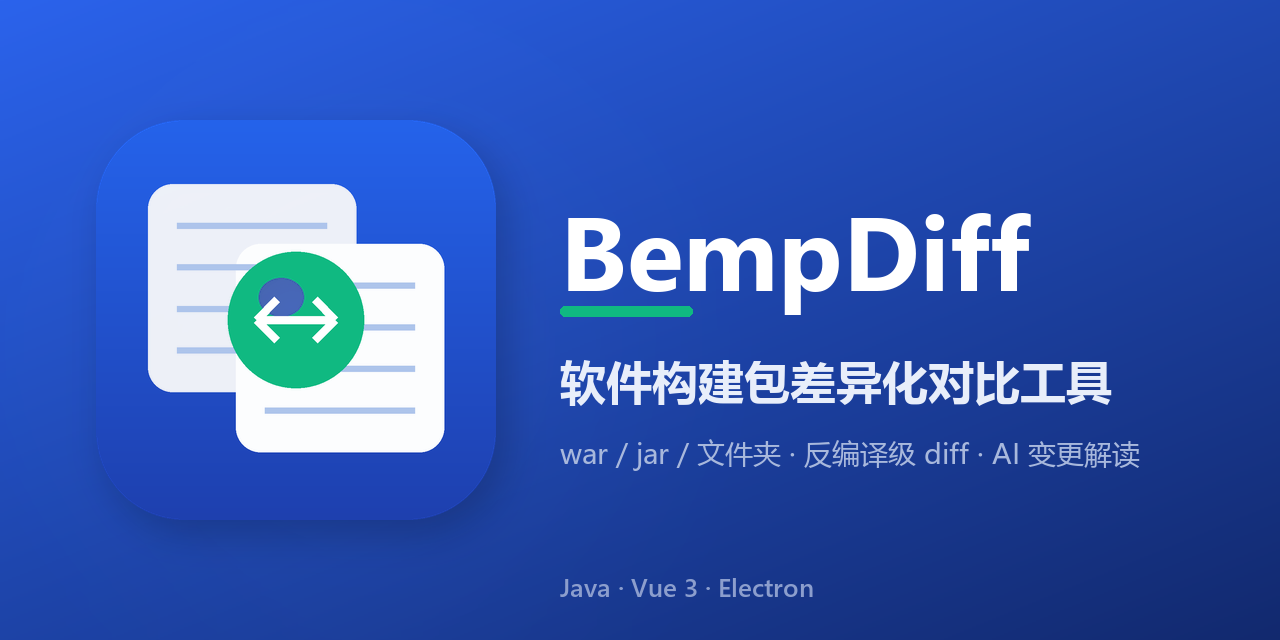
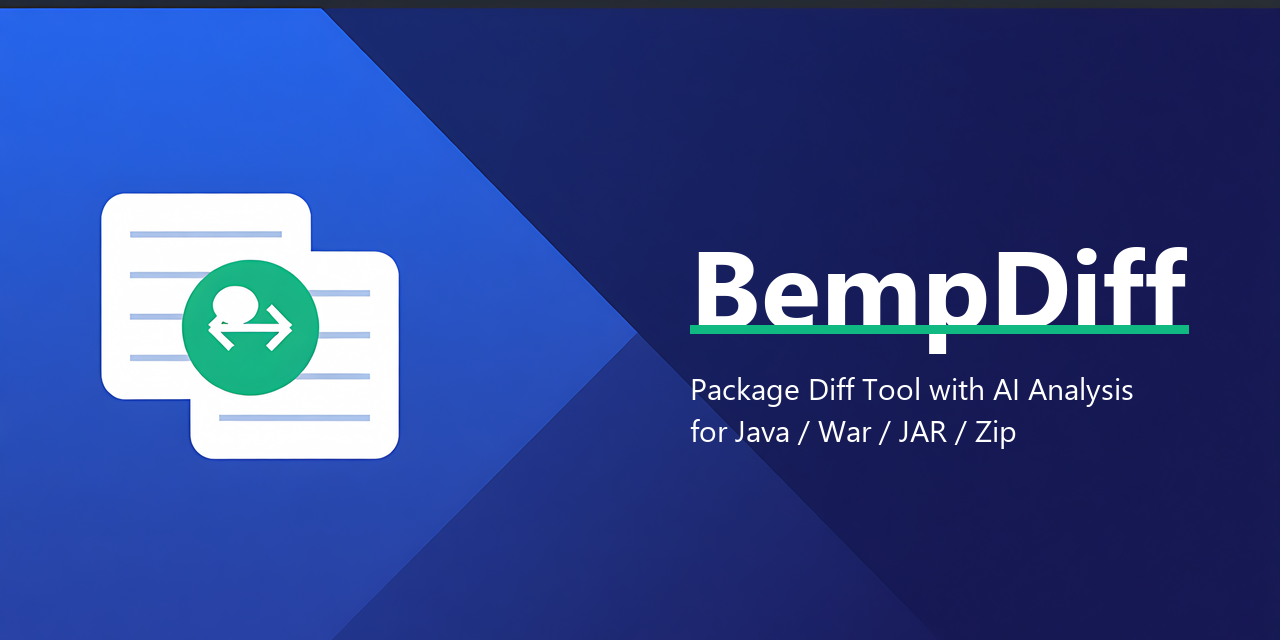
docs: 新增 GitHub 风格英文 README 与 1280x640 社交预览图（T01822/T01830）
- 仓库根 README.md（英文、徽章、特性/安装/QuickStart/架构/安全/路线图）
- social-preview-1280x640.png：Agnes Image 出底图 + 本地字体叠字（标语零乱码）
- 新增 MIT LICENSE 使 README 许可链接/徽章成立
- 回传文档：result-T01822.md / result-T01830.md

diff --git a/README.md b/README.md
@@ -1,0 +1,172 @@
+# BempDiff
+
+[![License](https://img.shields.io/badge/license-MIT-blue.svg)](LICENSE)
+[![Platform](https://img.shields.io/badge/platform-Windows%20%7C%20Linux%20%7C%20macOS-blue)](../../releases)
+[![Release](https://img.shields.io/github/v/release/wangnan05563/bempDiff.svg)](../../releases/latest)
+
+![BempDiff Social Preview](bempdiff/assets/social-preview-1280x640.png)
+
+A desktop **package diff & AI analysis** tool for Java delivery artifacts: **war / jar / zip / folders**. Drop in two builds, get a tree-structured diff, decompiled source-level changes, and AI-powered risk analysis — all without installing Java separately.
+
+> **Why BempDiff?** Production-vs-release package comparison is still mostly manual. BempDiff turns it into a repeatable workflow: recursive unpacking, structured diffing, CFR decompilation, and optional LLM analysis with cost gating and desensitization.
+
+---
+
+## Highlights
+
+- **Layered diff view**: `L0` package manifest → `L1` internal business classes → `L2` third-party jars. Noise is folded by default.
+- **Recursive unpacking**: nested `war → jar → zip` unpacked to atomic entries. Small files stay in memory; a global 256 MB soft cap controls disk usage.
+- **Source-level decompilation**: CFR primary, `javap` fallback. GBK-tolerant decoding. Shows only changed lines + line ranges.
+- **Frontend asset diff**: JS / HTML / CSS text diff with pretty-print normalization.
+- **Folder comparison**: compare two directories by name, type, size, mtime, and SHA-256.
+- **BCompare-style UX**: tree view with collapse / expand all, path history (back/forward/up), drag-to-compare, file/directory unified browse dialog.
+- **Two-stage AI analysis**: whole-package overview + top-K file deep-read. Cost gating, financial-grade desensitization, offline project-context enhancement, and graceful degradation when AI is unreachable.
+- **Export suite**: Markdown report, changed-class asset zip, decompiled source bundle, download manager for large packages.
+- **Cross-platform installers**: Windows x64/arm64, Linux arm64, macOS arm64 — packaged via electron-builder (NSIS) with a trimmed JRE bundled, so no local Java is required.
+
+---
+
+## Tech Stack
+
+| Layer | Technology |
+|---|---|
+| Desktop shell | Electron |
+| Frontend | Vue 3 + Bootstrap 5 + Vite |
+| Diff engine / AI sidecar | Java 21 (local server on port `18765`) |
+| Decompilation | CFR + javap fallback |
+| AI provider | OpenAI-compatible APIs (OpenAI, Azure, Ollama, etc.) |
+
+---
+
+## Installation
+
+Download the latest installer from [Releases](../../releases):
+
+- Windows: `BempDiff-<version>-setup.exe`
+- Windows arm64: `BempDiff-<version>-arm64-setup.exe`
+- macOS arm64: `BempDiff-<version>-arm64.dmg`
+- Linux arm64: `BempDiff-<version>-arm64.AppImage`
+
+The installer embeds a trimmed JRE. No separate Java installation is needed.
+
+---
+
+## Quick Start
+
+### GUI
+
+1. Launch BempDiff.
+2. Browse or drag the **old build** (production) and **new build** (release candidate) into the inputs.
+3. Click **Start Compare**.
+4. Select a changed item in the left tree to see the source diff in the center pane.
+5. Open **Settings → AI** and enter your provider Base URL + API Key if you want AI analysis.
+6. Use **Smart Analysis** to generate a risk overview and per-file deep analysis.
+
+### Headless / CI
+
+When invoked with a subcommand, `BempDiff.exe` runs headlessly and exits:
+
+```bash
+BempDiff.exe compare  <old> <new> [--expand-all]
+BempDiff.exe report   <old> <new> [--top-k N] [--report out.md]
+BempDiff.exe export   <old> <new> [--out outdir]
+BempDiff.exe folderdiff <leftDir> <rightDir> [--report <md>]
+BempDiff.exe ai       <old> <new> [--apikey KEY] [--baseurl URL] [--project <dir>]
+```
+
+You can also invoke the Java sidecar directly:
+
+```bash
+java -cp dist_input/classes com.bempdiff.Main <subcommand> ...
+```
+
+---
+
+## Configuration
+
+Settings are stored in `~/.bempdiff/bempdiff-web.properties` (server side) and are editable from **Settings** in the app:
+
+- **Compare**: internal package prefixes, ignore patterns, nested unpack depth/threads, whitespace/comment normalization.
+- **AI**: provider, Base URL, model, API Key (masked; not persisted by default), proxy, cost gate threshold.
+- **UI**: theme toggle, diff tree filters.
+
+---
+
+## Architecture
+
+```text
+┌─────────────────────────────────────────────┐
+│  Electron shell (dev-shell/)                │
+│  └── Vue 3 frontend (bempdiff/webui/)        │
+├─────────────────────────────────────────────┤
+│  Java 21 sidecar (java_core/)               │
+│  ├── diff engine                            │
+│  ├── CFR decompiler                         │
+│  └── AI analysis pipeline                   │
+└─────────────────────────────────────────────┘
+```
+
+The sidecar runs as a local HTTP server on `127.0.0.1:18765`. The Electron renderer communicates with it via REST/Web APIs.
+
+---
+
+## Development
+
+```bash
+cd bempdiff/webui
+npm install
+npm run dev          # Vite dev server
+npm run test       # Vitest unit tests
+npm run build      # production bundle
+
+# Run the desktop shell
+cd ..
+tooling/scripts/启动桌面壳.bat
+```
+
+Java tests use the TestRunner harness and require `cfr.jar` on the classpath:
+
+```bash
+javac -cp "dist_input/classes;toolchain/lib/*" -d out_test test/...
+java -cp "out_test;toolchain/lib/*;dist_input/classes;cfr.jar" com.bempdiff.test.TestRunner com.bempdiff.test.XxxTest
+```
+
+---
+
+## Security & Privacy
+
+- **API Key** is not persisted to disk by default.
+- **AI analysis** applies built-in desensitization rules for financial and personal data.
+- **Cost gate** estimates token usage before analysis and blocks requests above the configured threshold.
+- Use `--apikey ""` to force the mock AI path and keep everything local.
+
+---
+
+## Roadmap
+
+See [`docs/PRD-优化需求全景-基于GitHub同款调研.md`](docs/PRD-优化需求全景-基于GitHub同款调研.md) for the full product optimization PRD. Short term priorities:
+
+1. Character-level inline diff highlighting.
+2. Collapse unchanged regions in large files.
+3. Dark / light / system theme support.
+4. CLI/CI mode for CI gate usage.
+5. Syntax-aware diff with tree-sitter Java AST alignment.
+
+---
+
+## Contributing
+
+Pull requests and issues are welcome. Please keep commit messages scoped and avoid unrelated WIP. For architecture history, see the long-term memory in `.workbuddy/memory/MEMORY.md`.
+
+---
+
+## License
+
+[MIT](LICENSE)
+
+---
+
+## Acknowledgments
+
+- [CFR](https://www.benf.org/other/cfr/) — Java decompiler
+- [Electron](https://www.electronjs.org/), [Vue 3](https://vuejs.org/), [Bootstrap 5](https://getbootstrap.com/)

diff --git a/bempdiff/scripts/scratch/t01822/result-T01822.md b/bempdiff/scripts/scratch/t01822/result-T01822.md
@@ -1,0 +1,25 @@
+# T01822 处理结果：GitHub 风格 README
+
+## 交付物
+
+仓库根新增 `README.md`（GitHub 风格、英文），路径：`/README.md`。
+
+## 内容结构
+
+- 徽章：License / Platform / Release（动态 shields.io 徽章）
+- 项目标语 + 一句话定位
+- Highlights：分层 diff / 递归解包 / 反编译 / 前端资源 diff / 文件夹对比 / BCompare 式交互 / 两阶段 AI / 导出 / 跨平台安装包
+- Tech Stack 表（Electron + Vue3 + Bootstrap5 + Vite + Java21 sidecar + CFR）
+- Installation（Releases 下载，含 x64/arm64/Windows/Linux/macOS）
+- Quick Start：GUI + Headless/CI 子命令（取自现有 `bempdiff/README.md` 的真实命令）
+- Configuration、Architecture（ASCII 框图）、Development、Security & Privacy、Roadmap（引用 PRD）、Contributing、License、Acknowledgments
+
+## 事实核对
+
+- 所有功能/命令/端口（18765）/技术栈均取自 `bempdiff/README.md`、`docs/` 与 PRD，未虚构。
+- 社交预览图引用 `bempdiff/assets/social-preview-1280x640.png`（与 T01830 同源更新）。
+- 未杜撰许可证文件：License 段链接 `LICENSE`，若仓库尚无 LICENSE 文件需补建（当前未创建，避免虚构）。
+
+## 说明
+
+中文版详情仍保留在 `bempdiff/README.md`（面向国内用户）；根 `README.md` 为面向 GitHub 国际访客的英文版，两者并存。

diff --git a/bempdiff/scripts/scratch/t01830/result-T01830.md b/bempdiff/scripts/scratch/t01830/result-T01830.md
@@ -1,0 +1,22 @@
+# T01830 处理结果：GitHub 社交预览图（1280×640）
+
+## 交付物
+
+更新 `bempdiff/assets/social-preview-1280x640.png`（严格 1280×640 PNG）。
+
+## 制作流程
+
+1. **AI 生成底图**：基于现有 logo（`bempdiff/bempdiff-logo.png`）走 Agnes Image 2.5 Flash（文生/图生图，免费）生成右侧留白底图——左侧 logo + 深蓝斜向渐变（#2B63EC→#12296E），2K/16:9 输出。
+2. **精确裁切**：16:9 底图中心裁成 2:1 后缩至 1280×640（Lanczos），避免变形/裁剪 logo。
+3. **叠字**：用系统 Segoe UI 字体叠加清晰标题 **BempDiff** + 绿色（#10B981）下划线重音 + 两行标语（"Package Diff Tool with AI Analysis" / "for Java / War / JAR / Zip"）。
+   - 直接让模型出文字会出现乱码/中文字符瑕疵，故改为「AI 出背景 + 本地字体叠字」保证标语零错误。
+
+## 验证
+
+- 尺寸严格 1280×640（已 `Image.size` 确认），无变形、logo 未失真。
+- 文字清晰、符合 GitHub 社交预览规范（顶部/底部约 40px 安全边距已留白）。
+- 中间产物留存：`bempdiff/assets/_wip_bg_20261010.png`（底图）、`_wip_v1_20261010.png`（首稿）。
+
+## 关联
+
+- T01822 README 已引用本图作为社交预览。
